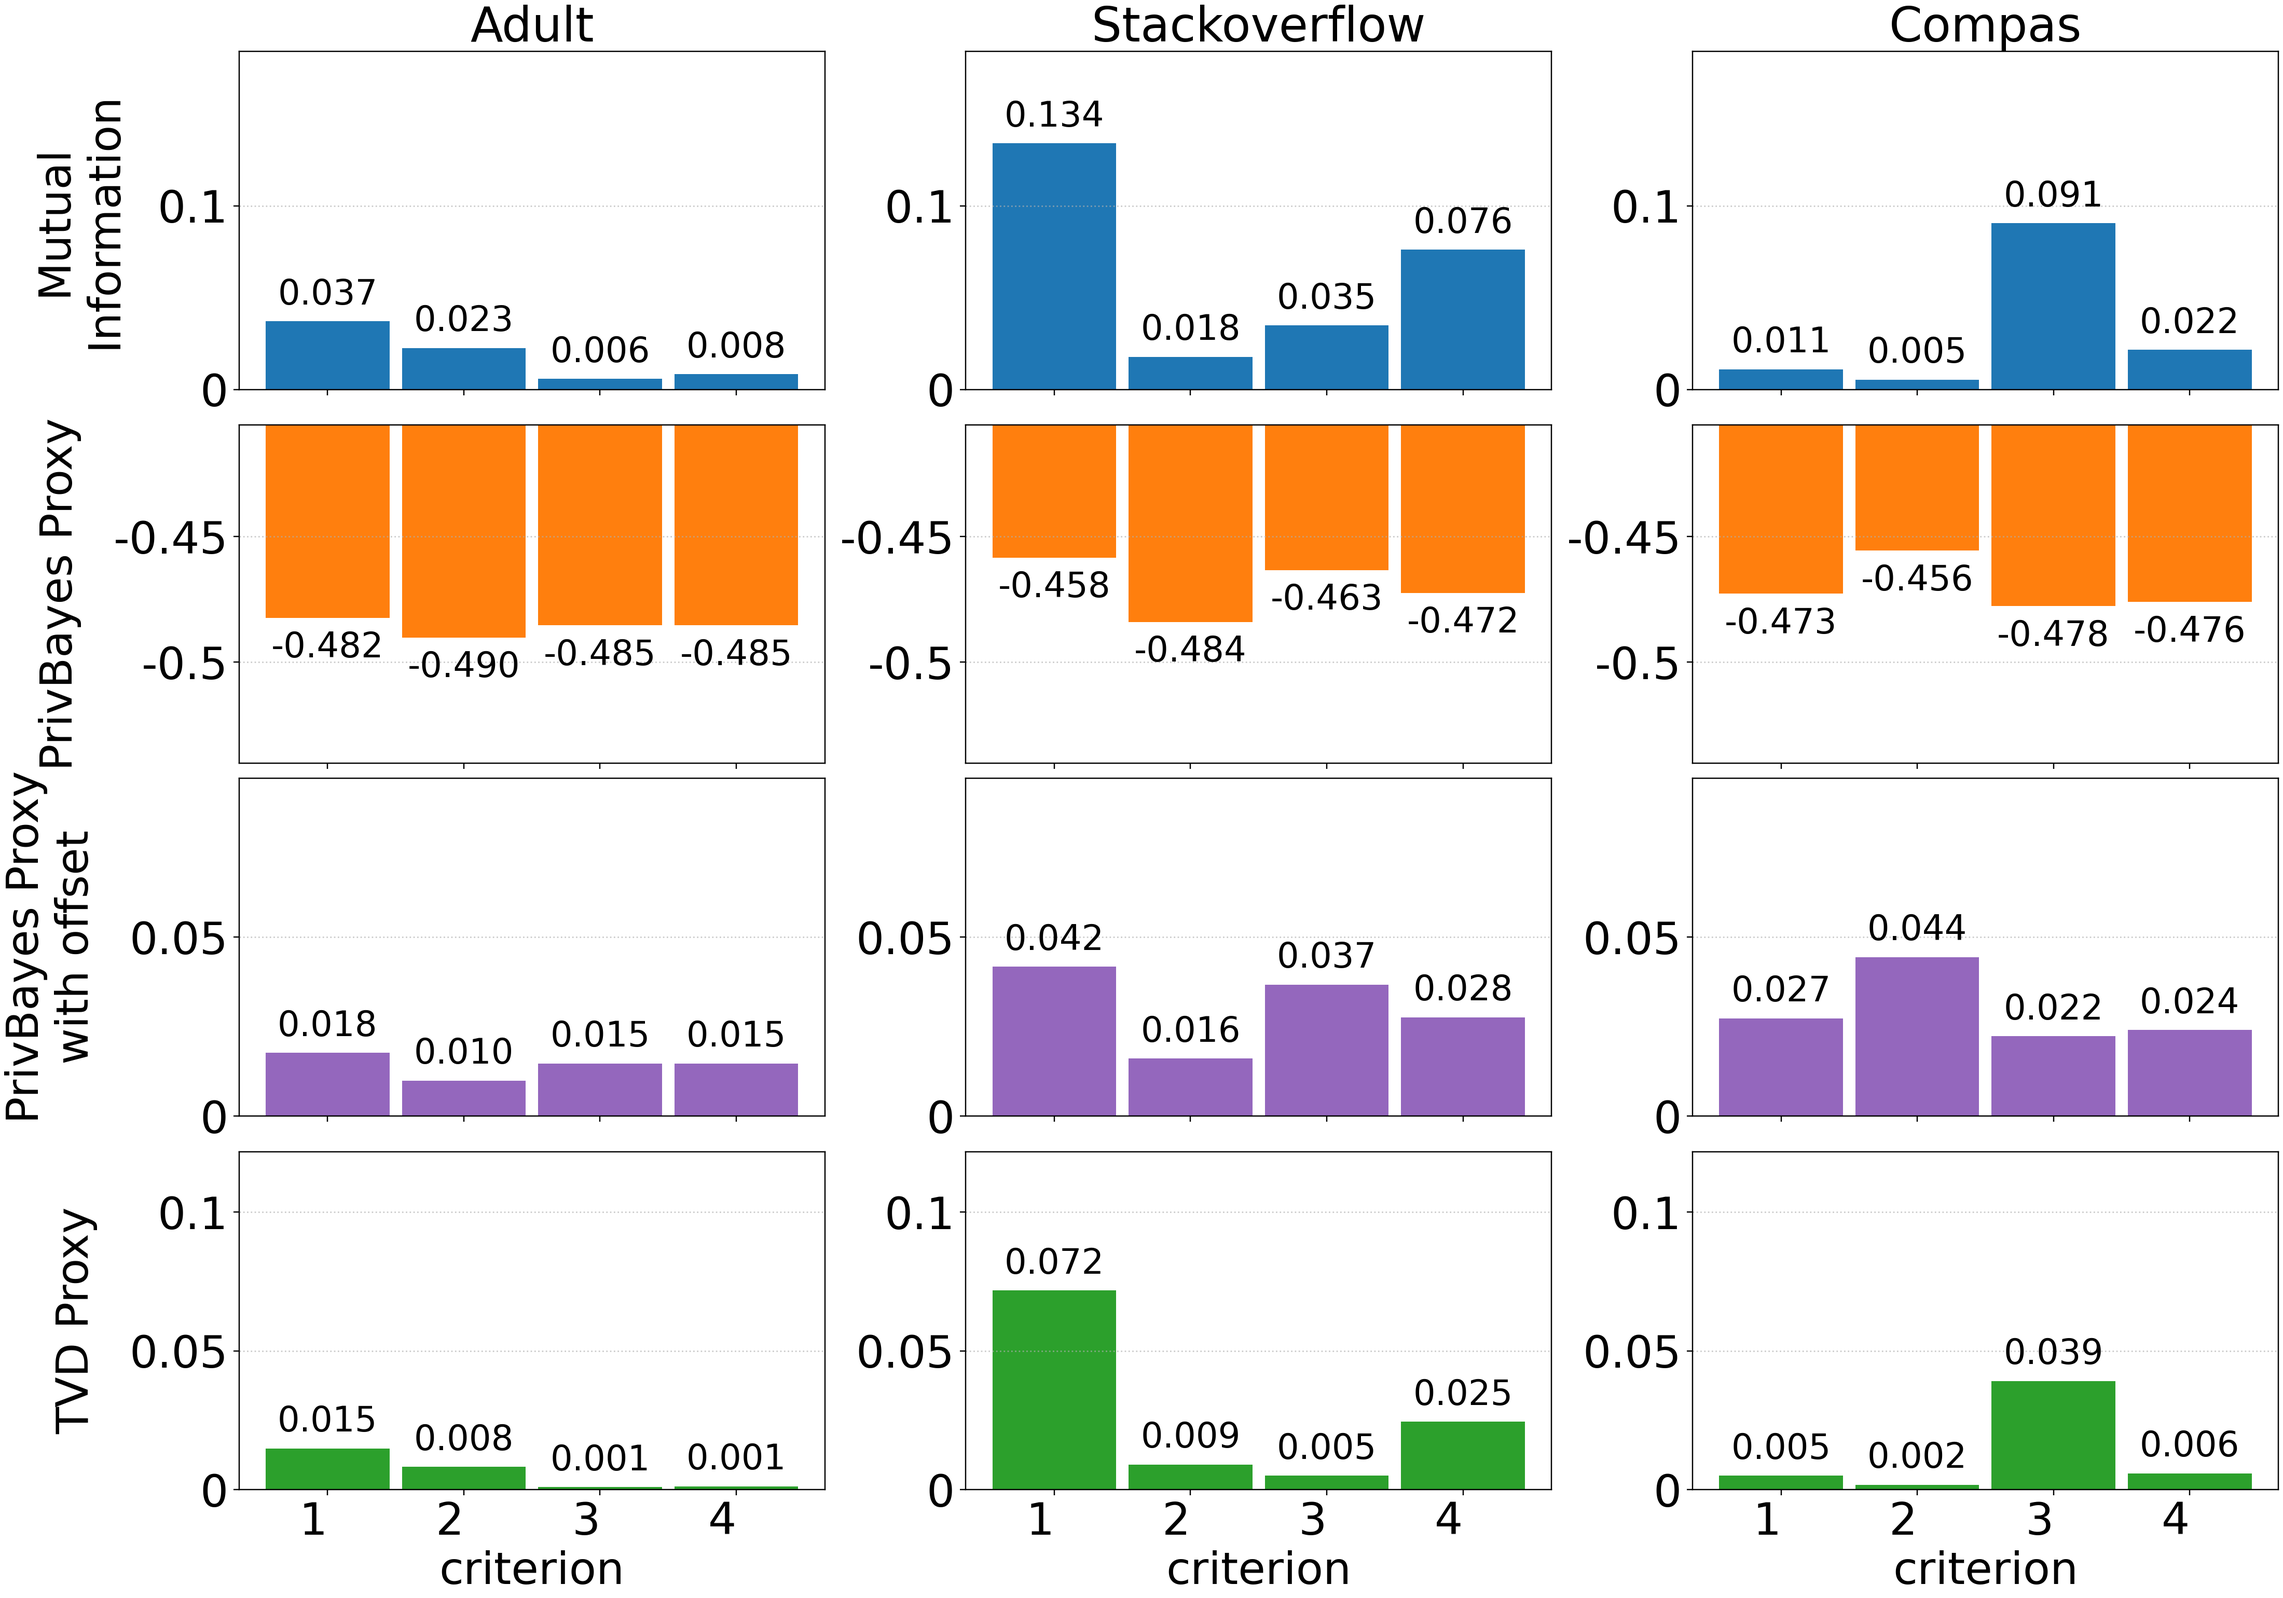
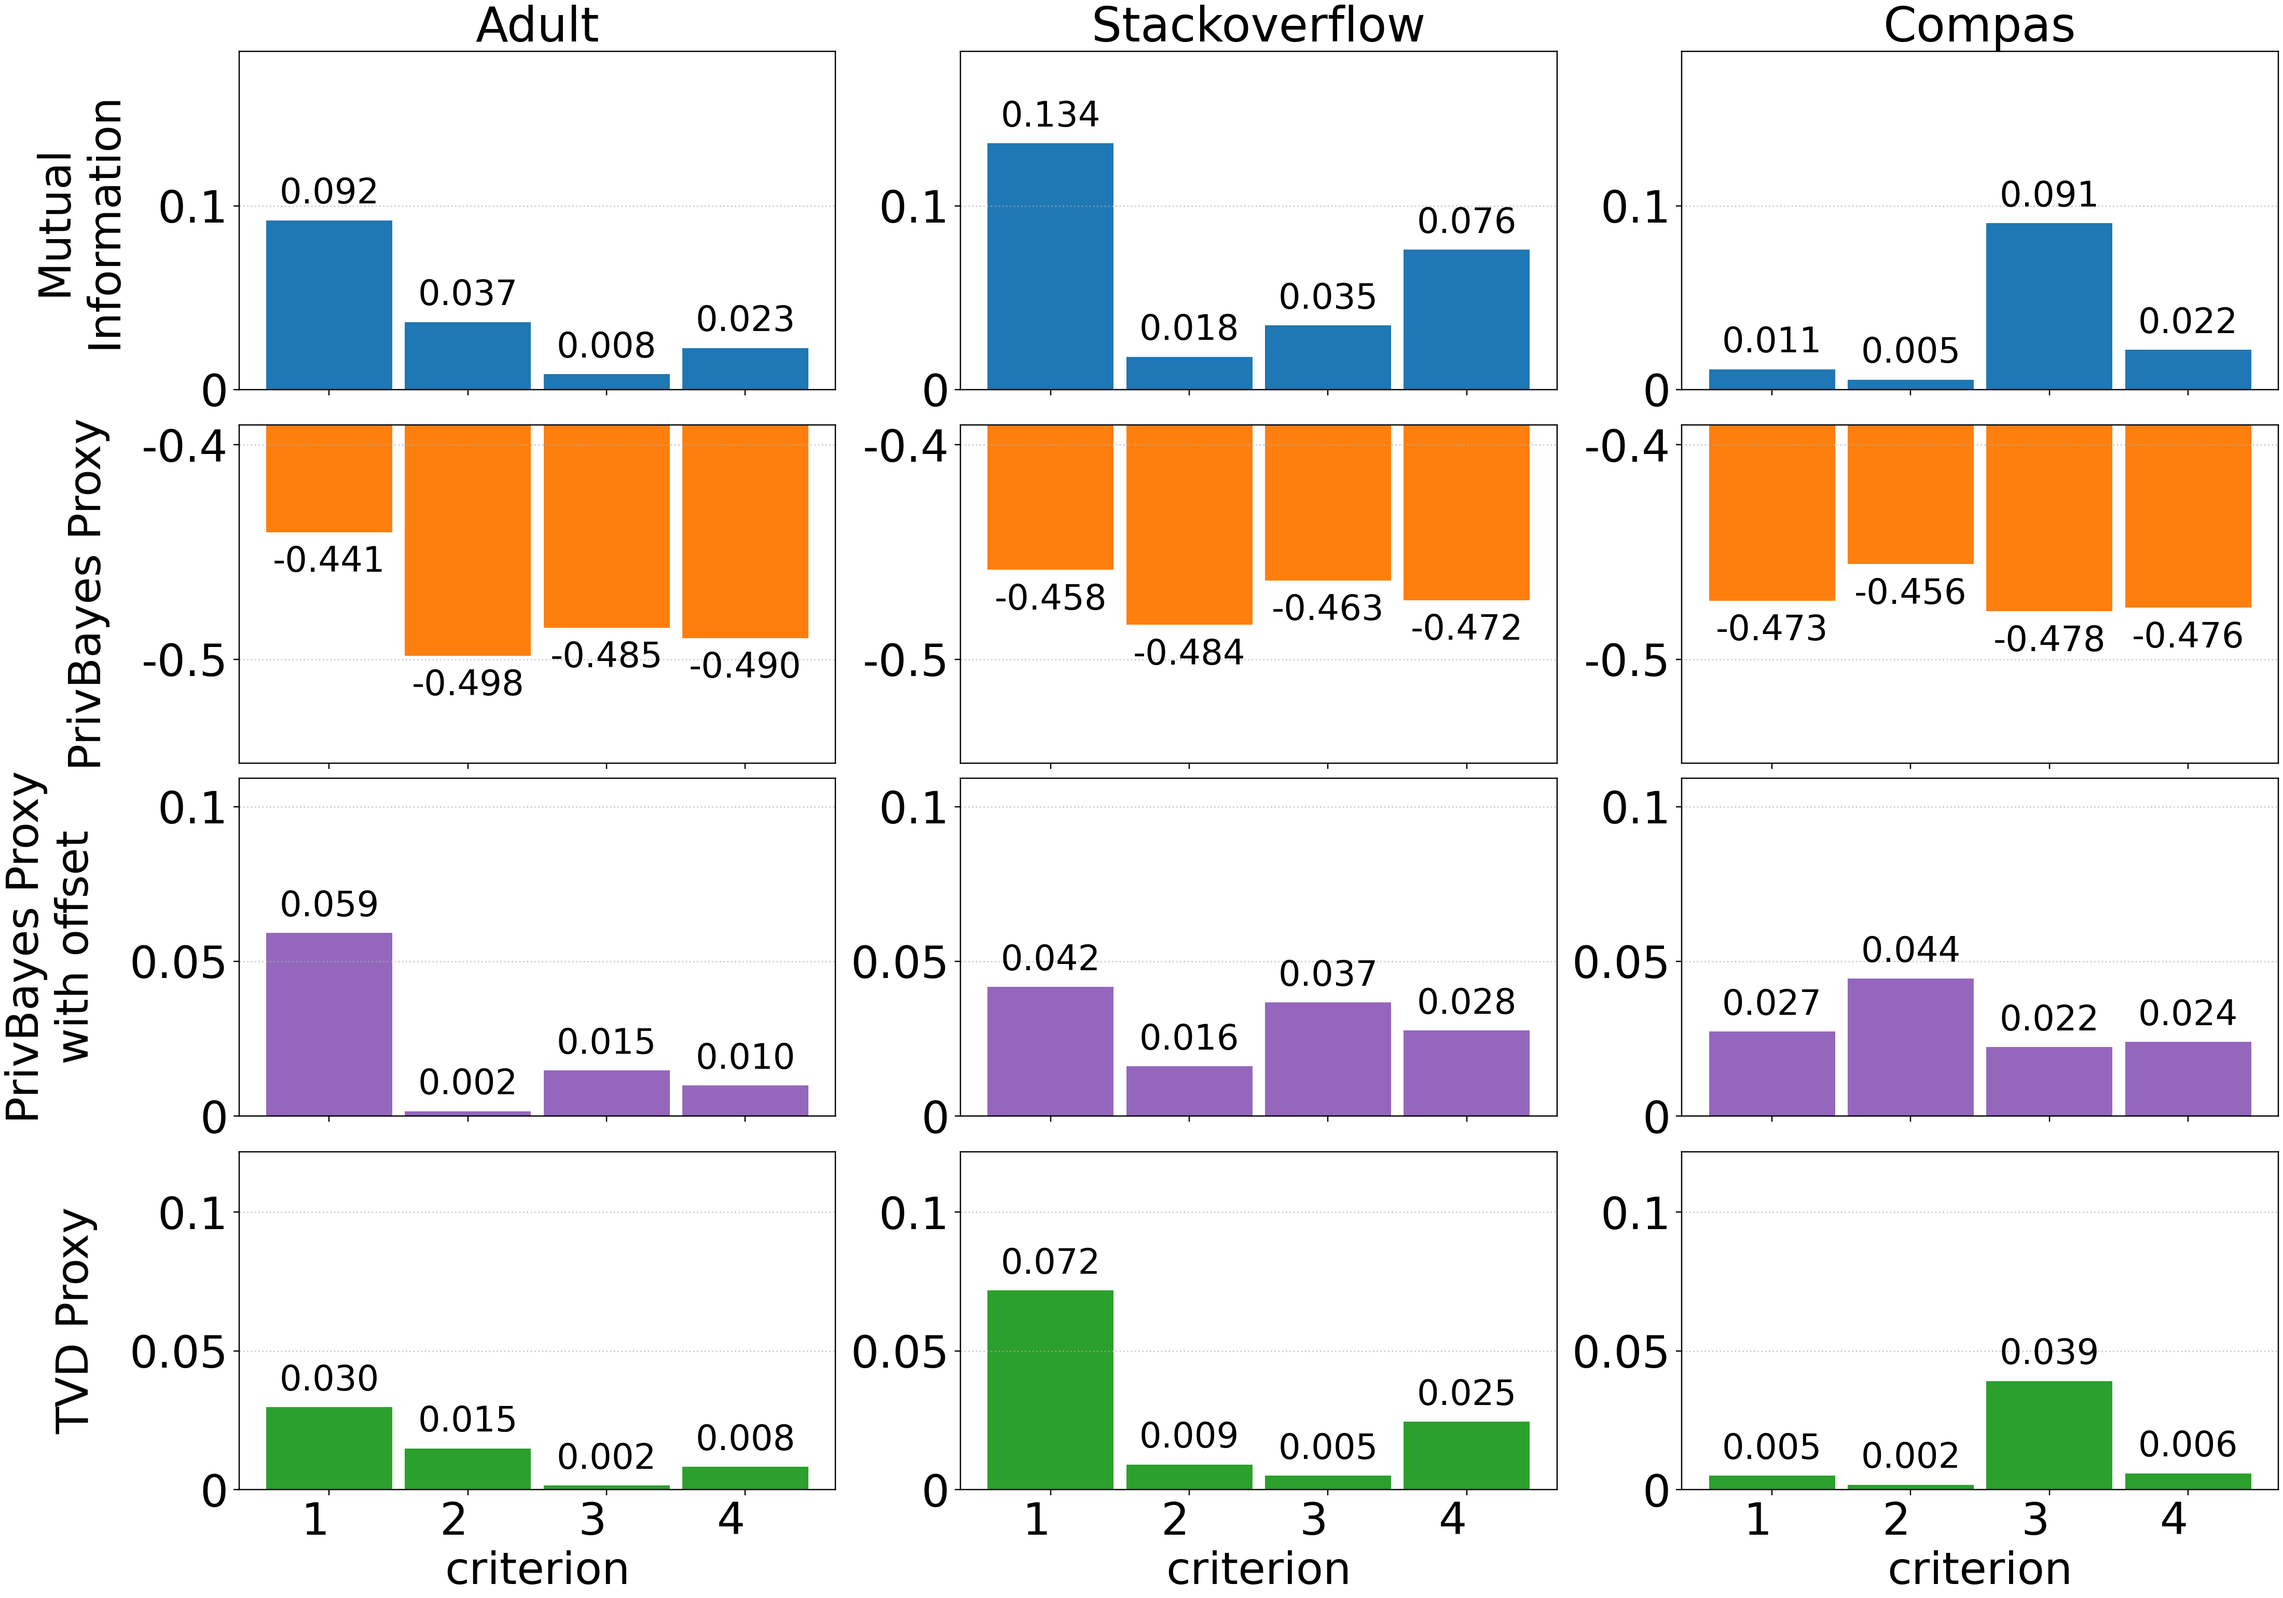
Recreated some plots

diff --git a/main.py b/main.py
@@ -87,7 +87,7 @@ y_formatter = FuncFormatter(_yfmt)
 def create_plot_0(
         epsilon: Optional[float] = 10.0,
         num_tuples: int = 10000,
-        repetitions: int = 3,
+        repetitions: int = 10,
         outfile: str = "plots/plot0.png",
 ):
     """Values of measures for IPUMS-CPS (for criterions with more unfairness we expect higher values)."""
@@ -518,10 +518,15 @@ def create_plot_1():
     # --- compute values
     vals = {k: {} for _, k in PROXIES}
     for ds_name, ds_config in datasets_shortened.items():
-        path, attrs = ds_config["path"], ds_config["criteria"]
+        path, criteria = ds_config["path"], ds_config["criteria"]
         mi_scores, priv_scores_orig, priv_scores_offset, tvd_scores = [], [], [], []
-        for s_col, o_col, a_col in attrs:
-            mi_scores.append(MutualInformation(datapath=path).calculate([[s_col, o_col, a_col]],
+        for criterion in criteria:
+            if len(criterion) == 3:
+                s_col, o_col, a_col = criterion
+            else:
+                s_col, o_col = criterion
+                a_col = None
+            mi_scores.append(MutualInformation(datapath=path).calculate([criterion],
                                                                         encode_and_clean=True))
             priv_scores_orig.append(ProxyMutualInformationPrivbayes(datapath=path).calculate(
                 s_col, o_col, a_col, add_offset=False
@@ -530,7 +535,7 @@ def create_plot_1():
                 s_col, o_col, a_col
             ))
             tvd_scores.append(ProxyMutualInformationTVD(datapath=path).calculate(
-                [[s_col, o_col, a_col]], encode_and_clean=True
+                [criterion], encode_and_clean=True
             ))
         vals["MI"][ds_name] = mi_scores
         vals["PRIV_ORIG"][ds_name] = priv_scores_orig
@@ -644,14 +649,14 @@ def create_plot_2():
     # --- compute values ------------------------------------------
     vals = {k: {} for _, k in MEASURES}
     for ds_name, ds_config in datasets_shortened.items():
-        path, attrs = ds_config["path"], ds_config["criteria"]
+        path, criteria = ds_config["path"], ds_config["criteria"]
         tvd_scores, auc_scores = [], []
-        for s_col, o_col, a_col in attrs:
+        for criterion in criteria:
             tvd_scores.append(ProxyMutualInformationTVD(datapath=path).calculate(
-                [[s_col, o_col, a_col]], encode_and_clean=True
+                [criterion], encode_and_clean=True
             ))
             auc_scores.append(TupleContribution(datapath=path).calculate(
-                [[s_col, o_col, a_col]], encode_and_clean=True
+                [criterion], encode_and_clean=True
             ))
         vals["TVD"][ds_name] = tvd_scores
         vals["AUC"][ds_name] = auc_scores
@@ -818,7 +823,7 @@ def plot_legend(outfile="plots/legend_proxies.png"):
 
 def run_experiment_1(
     epsilon=1.0,
-    repetitions=5,
+    repetitions=10,
     outfile="plots/experiment1.png"
 ):
     """Plotting average runtimes over 'repetitions' repetitions per measure and dataset as function of
@@ -954,7 +959,7 @@ def run_experiment_1(
 def run_experiment_2(
     epsilon=1.0,
     num_tuples=100000,
-    repetitions=3,
+    repetitions=10,
     outfile="plots/experiment2.png"
 ):
     """Plot average runtimes over `repetitions` per measure and dataset as function of the number of criteria."""
@@ -1069,7 +1074,7 @@ def run_experiment_2(
 def run_experiment_3(
     epsilons=(0.1, 1, 5, 10),
     num_tuples=100000,
-    repetitions=3,
+    repetitions=10,
     outfile="plots/experiment3.png"
 ):
     """Relative L1 error as function of epsilon."""
@@ -1199,7 +1204,7 @@ def run_experiment_3(
 def run_experiment_4(
         epsilon: float = 1.0,
         num_tuples: int = 100000,
-        repetitions: int = 5,
+        repetitions: int = 10,
         outfile: str = "plots/experiment4.png",
 ):
     """
@@ -1327,7 +1332,7 @@ def run_experiment_4(
 
 def run_experiment_5(
     num_tuples=100000,
-    repetitions=5,
+    repetitions=10,
     epsilon=1.0,
     outfile="plots/experiment5.png",
 ):
@@ -1460,7 +1465,7 @@ def run_experiment_5(
 
 def run_experiment_6(
     num_tuples=100000,
-    repetitions=5,
+    repetitions=10,
     epsilon=1.0,
     outfile="plots/experiment6.png",
 ):
@@ -1586,13 +1591,13 @@ def run_experiment_6(
 
 
 if __name__ == "__main__":
-    create_plot_0()
+    # create_plot_0()
     # create_plot_1()
     # create_plot_2()
     # plot_legend()
     # run_experiment_1()
-    # run_experiment_3()
     # run_experiment_2()
+    # run_experiment_3()
     # run_experiment_4()
-    # run_experiment_5()
-    # run_experiment_6()
+    run_experiment_5()
+    run_experiment_6()
